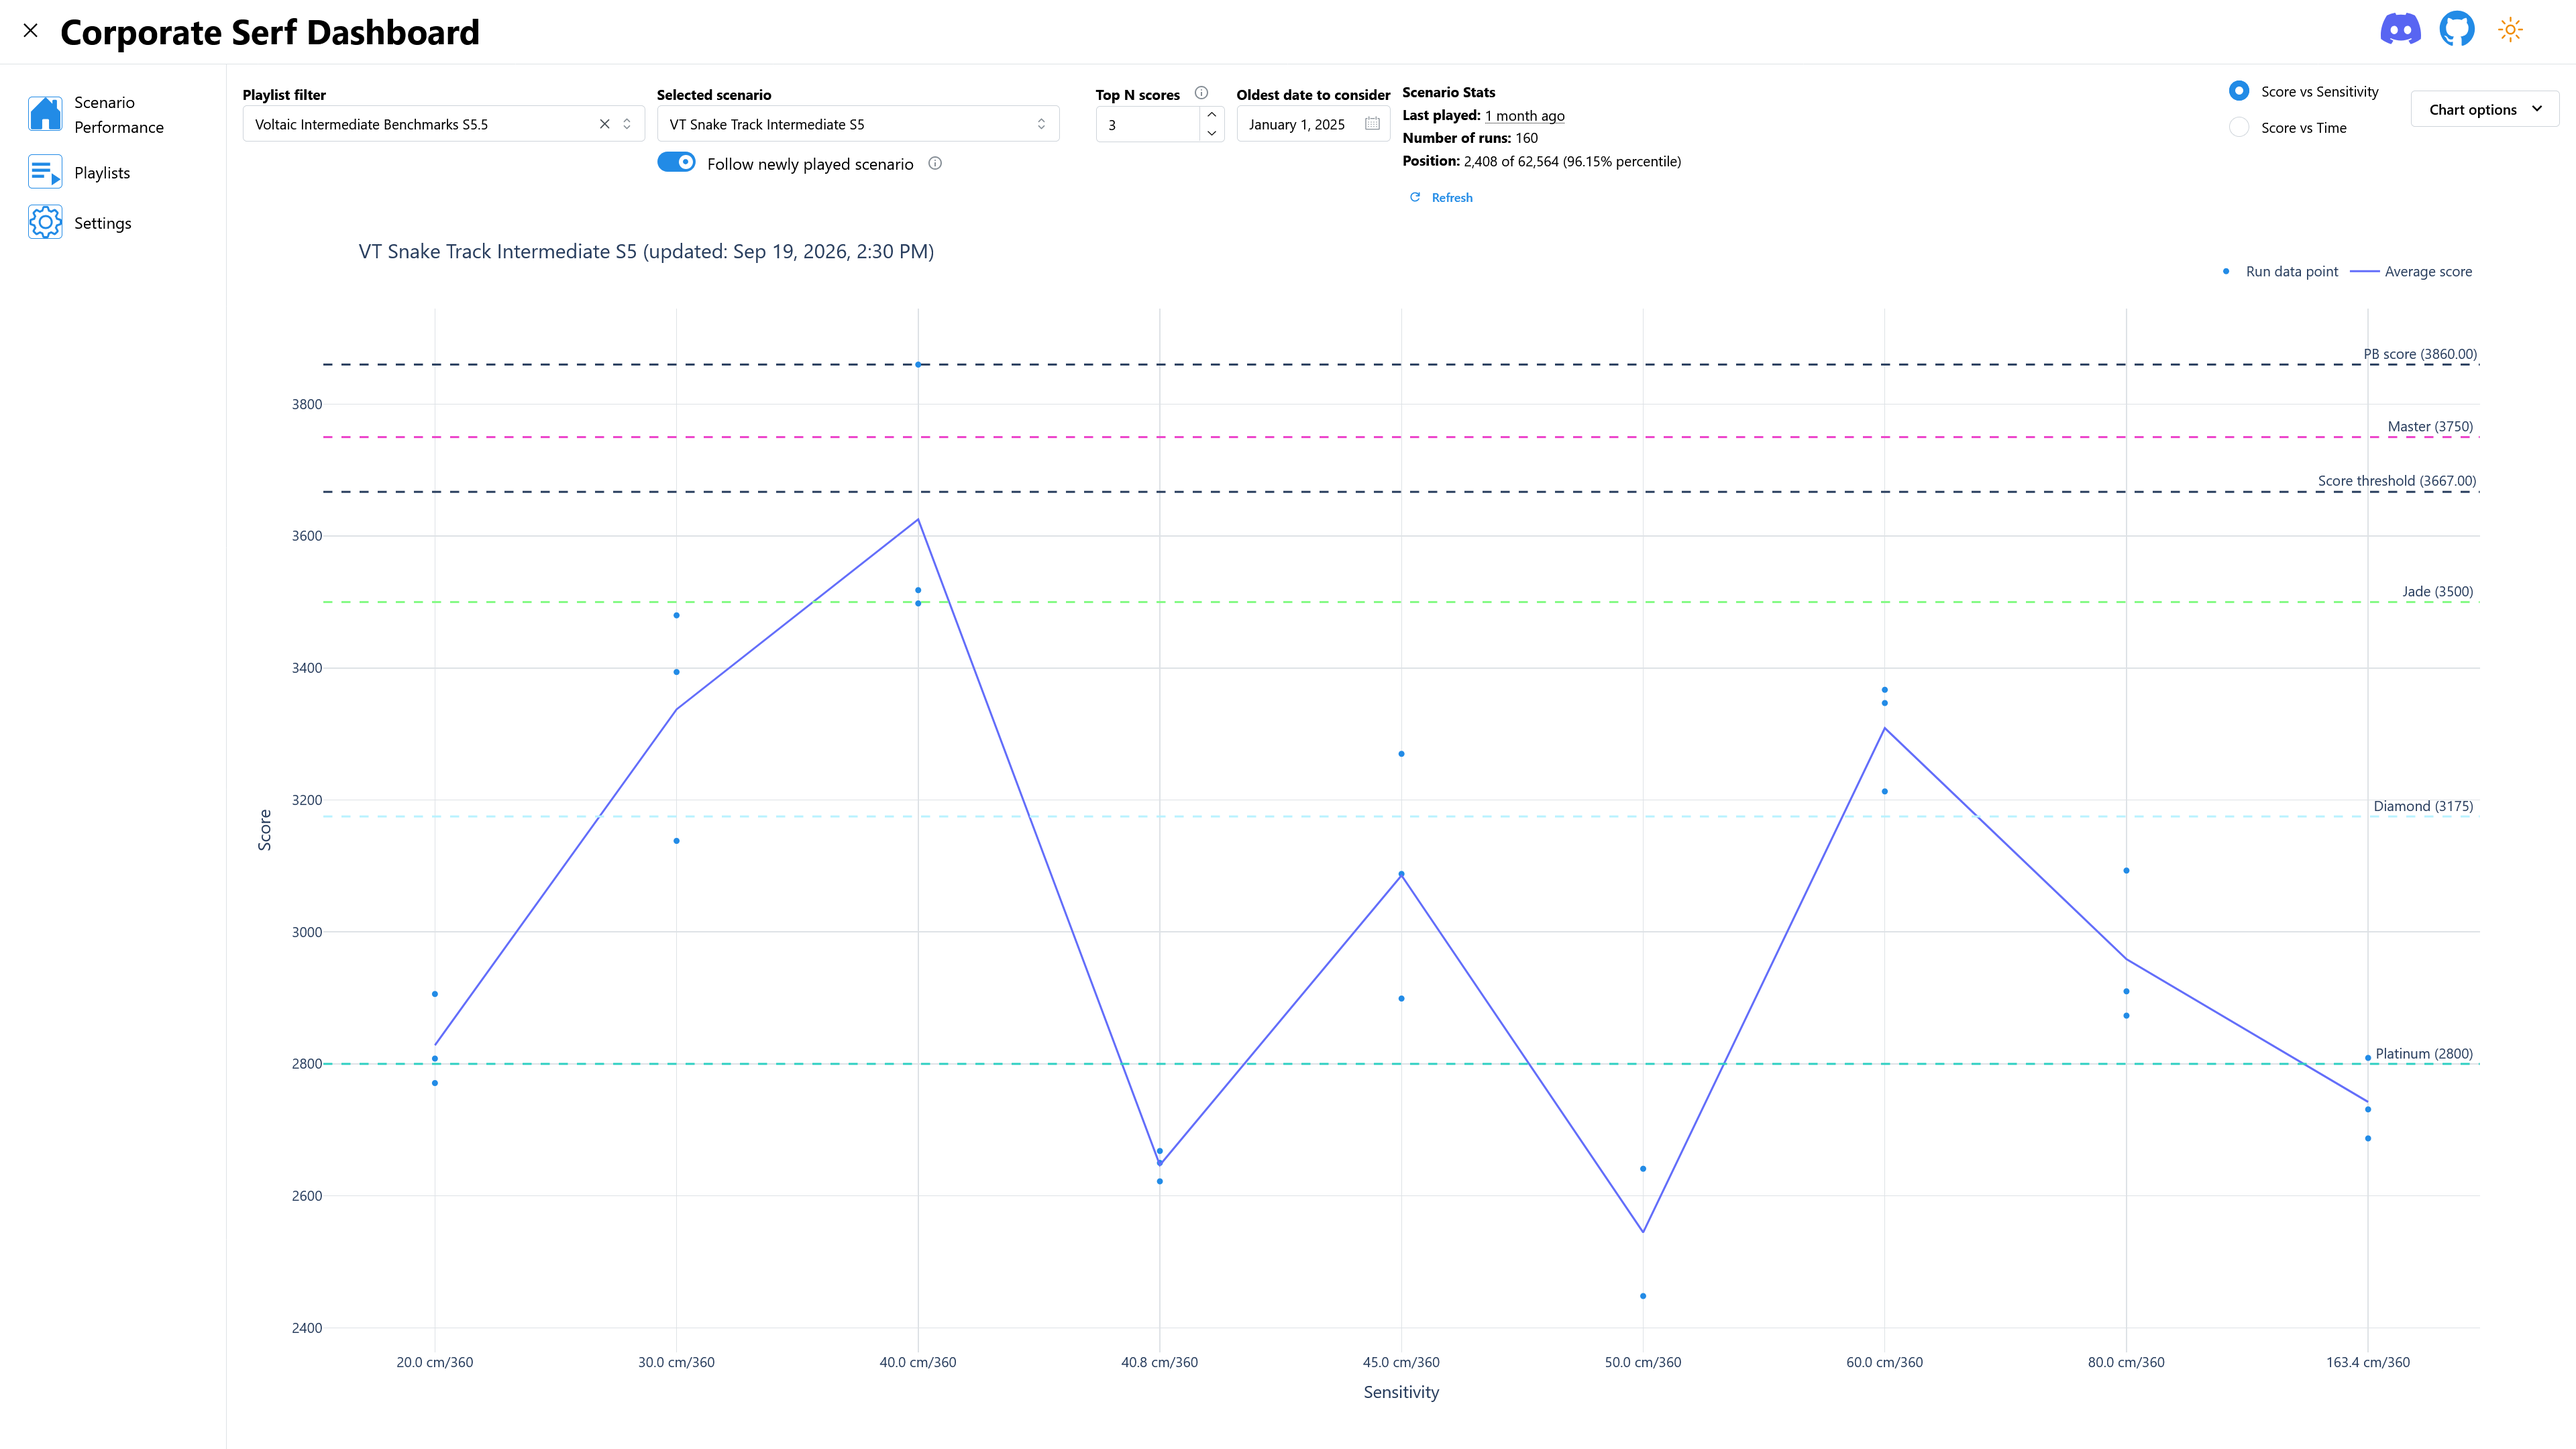
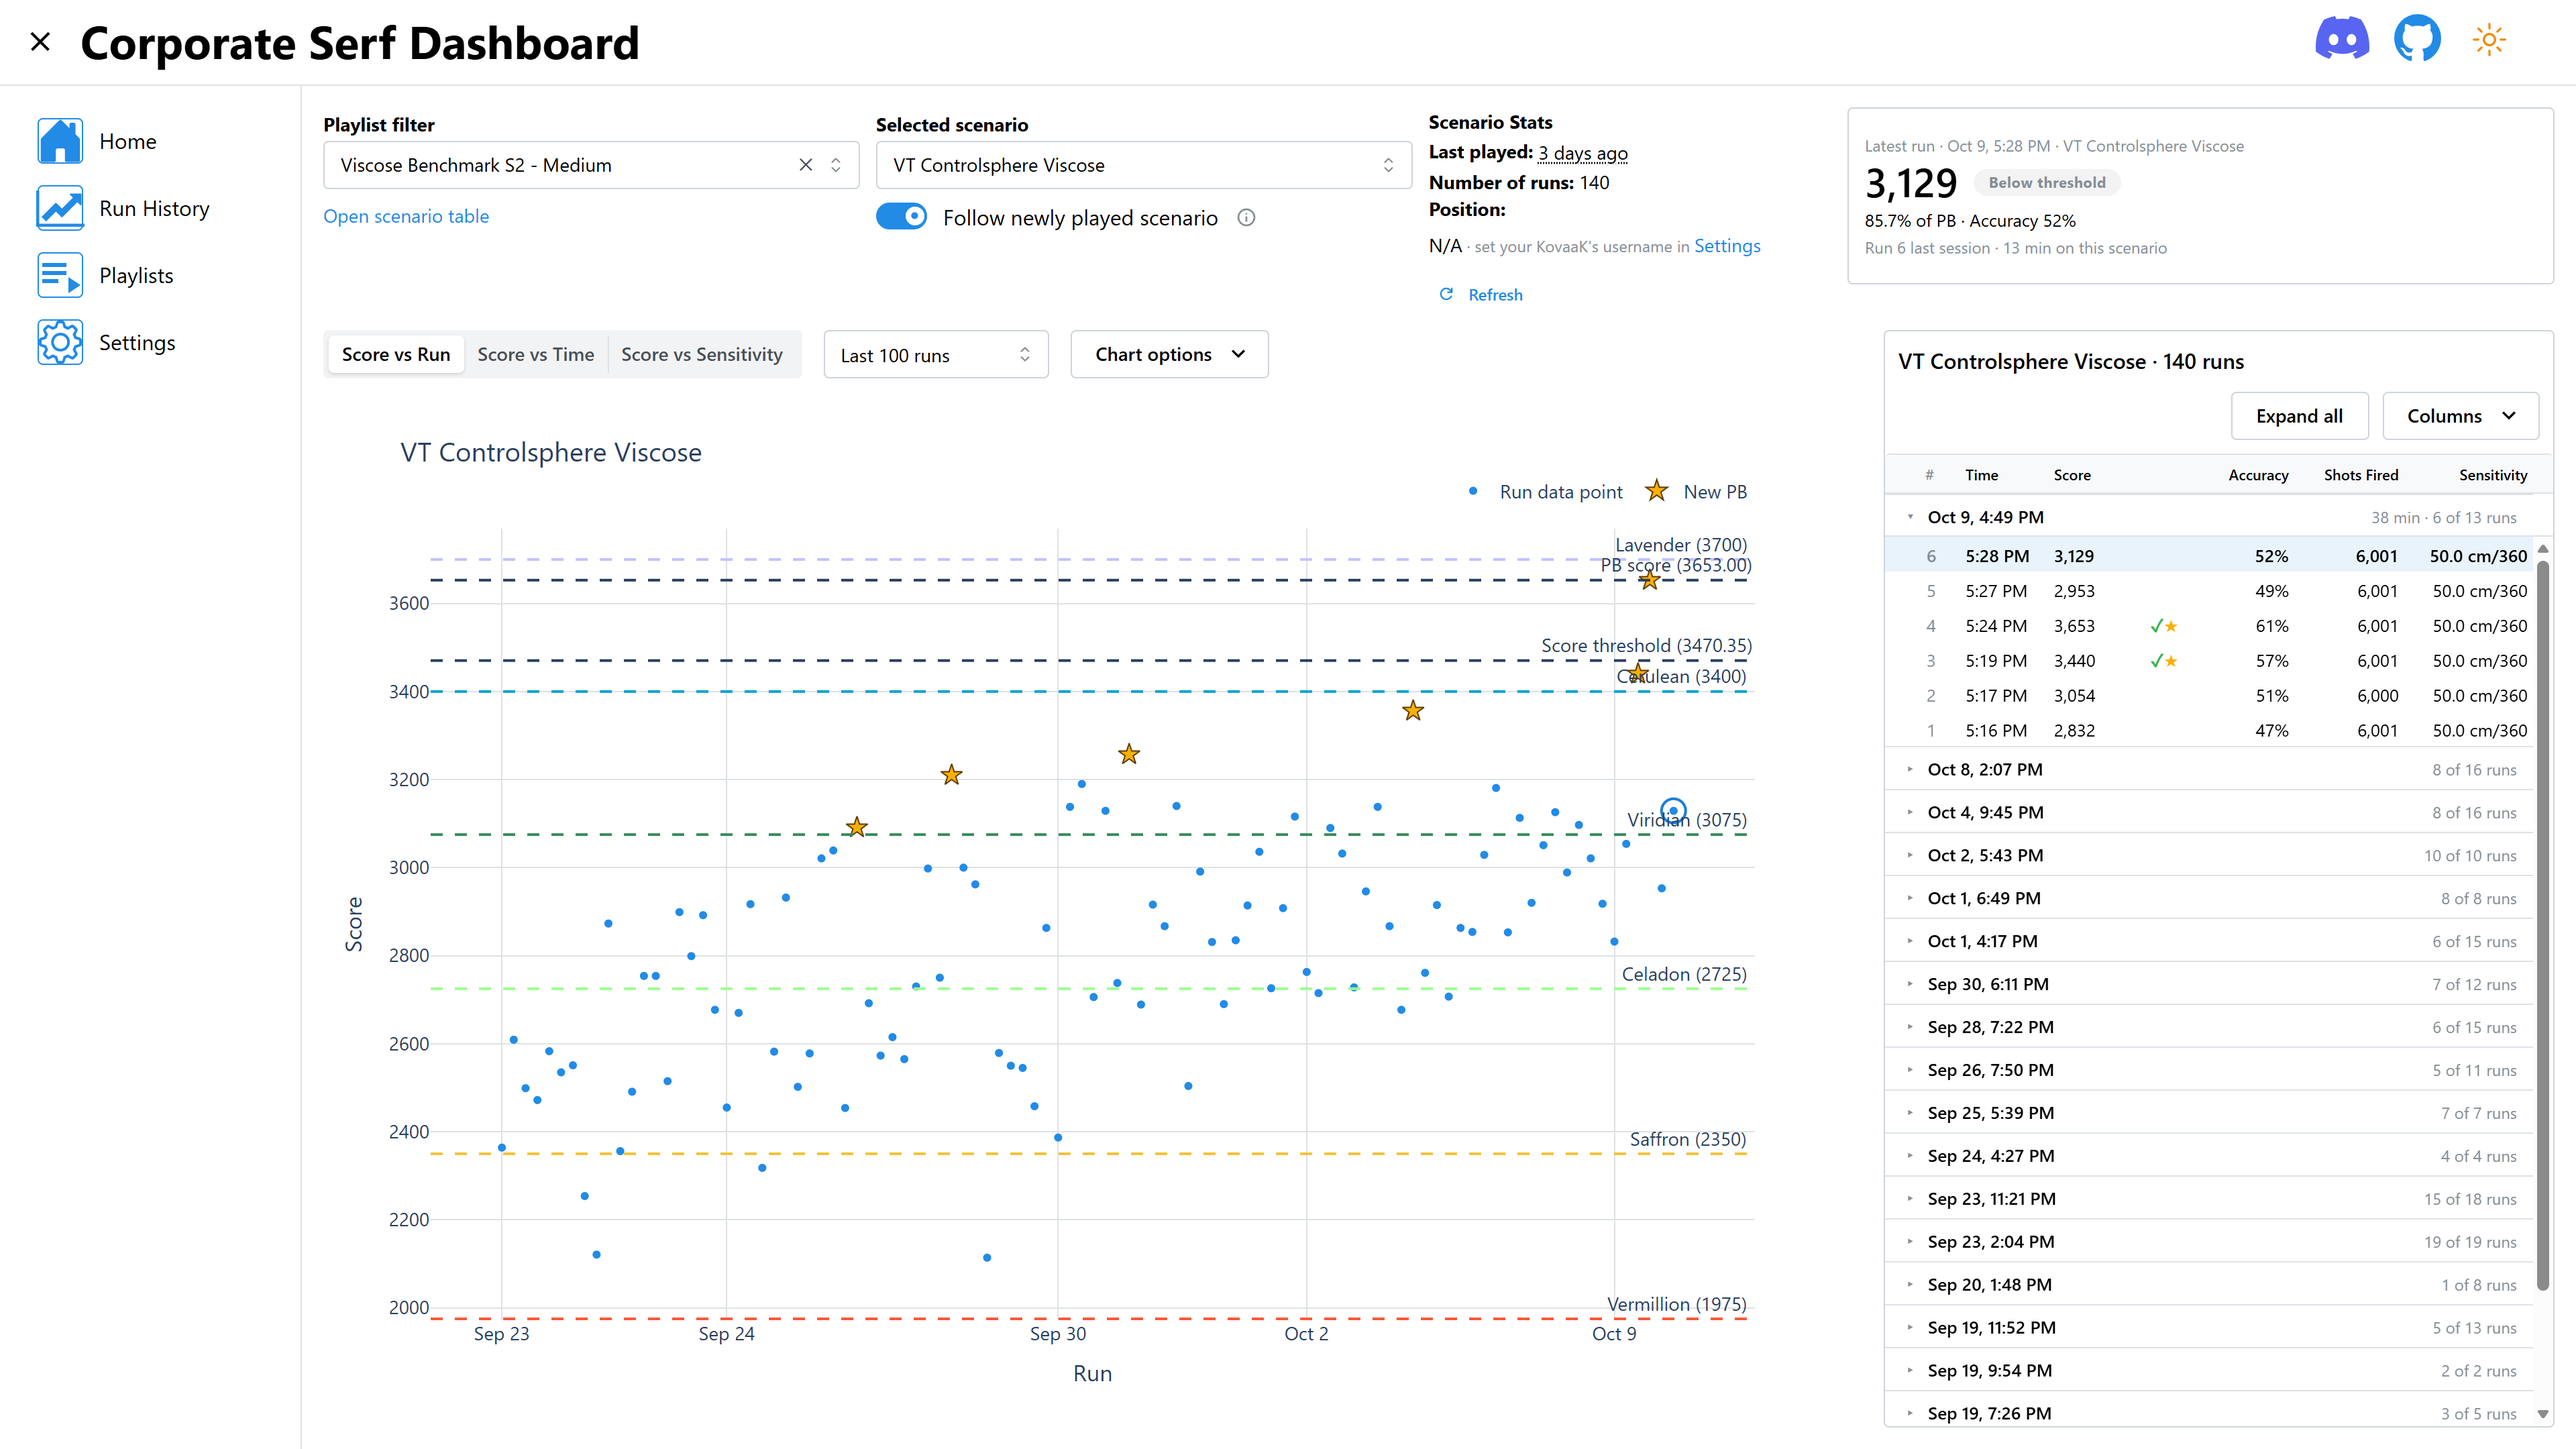
docs: retake the README's screenshot on the Run History page
The image was renamed for the page and still showed the page it replaced.
It is retaken in headless Edge at the same size, 3840 by 2160, on a copy of
five scenarios' real stats files, with no KovaaK's username set, so the
Position line reads as it does before a username is given.

The Run toasts proposal gets back the test file name it was ratified with.
A document that records the past keeps its text, and only its link to the
deleted proposal is repointed.

diff --git a/docs/proposals/run_toasts_proposal.md b/docs/proposals/run_toasts_proposal.md
@@ -924,7 +924,7 @@ For the implementation PR:
   no Notifications group.
 - **What is gone.** The tests for the verdict and placement toasts are
   removed. The tests for the judging functions move with those functions.
-- **The channel.** `tests/test_run_verdict_lifetime.py` stays as the
+- **The channel.** `tests/test_home_run_verdict_lifetime.py` stays as the
   guard on replace-in-place behavior, which does not change.
 - **In a browser, with a scratch stats folder.** A run dropped while the
   Playlists page is open shows the toast, and its link opens Run History on
